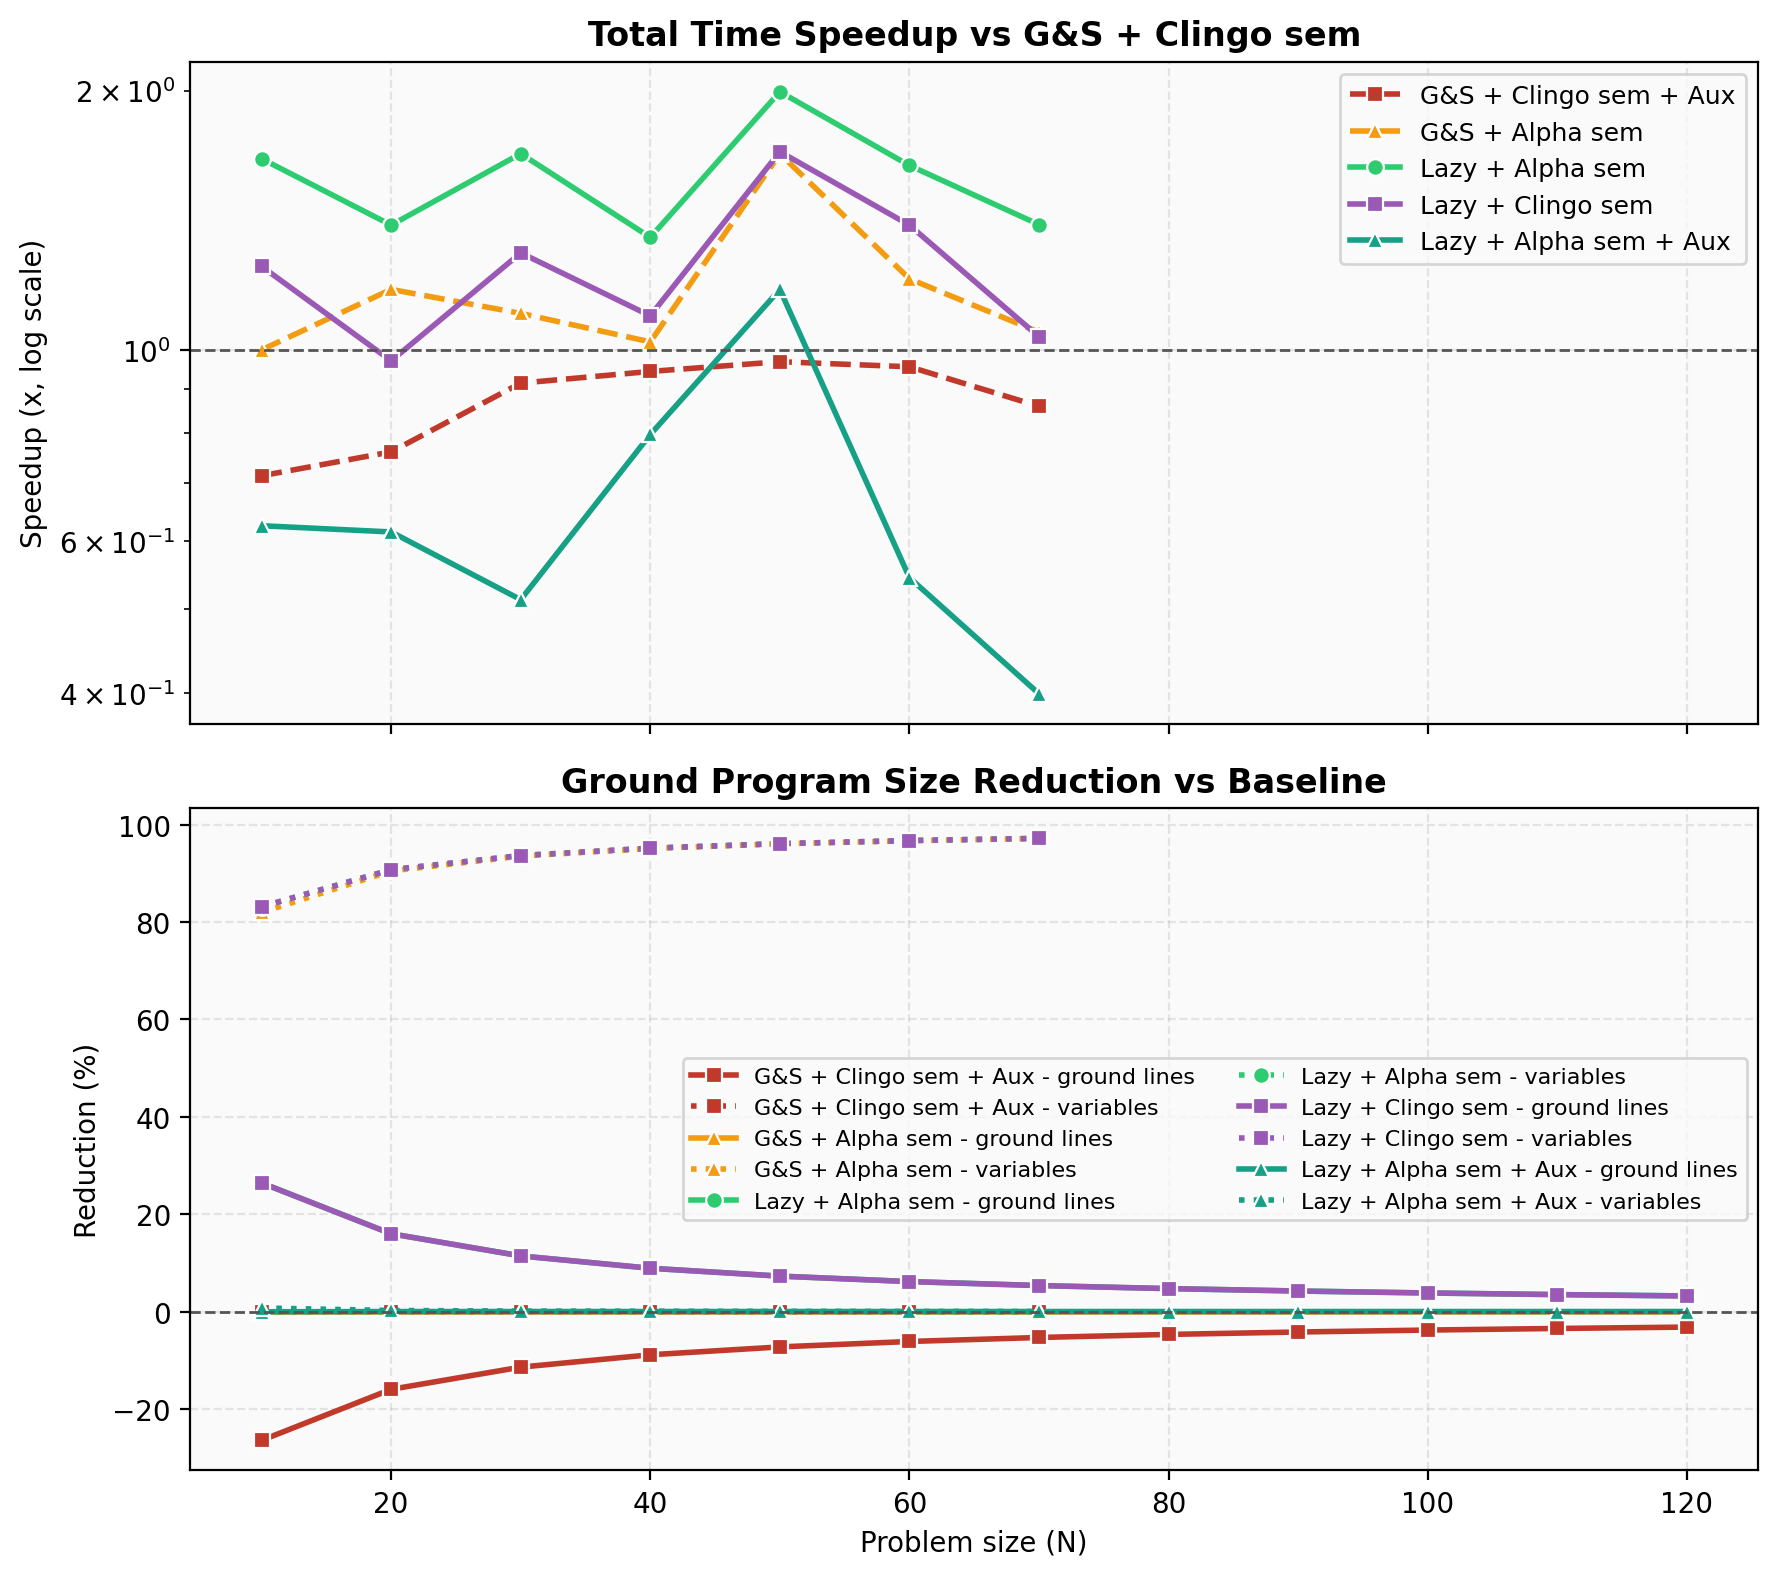
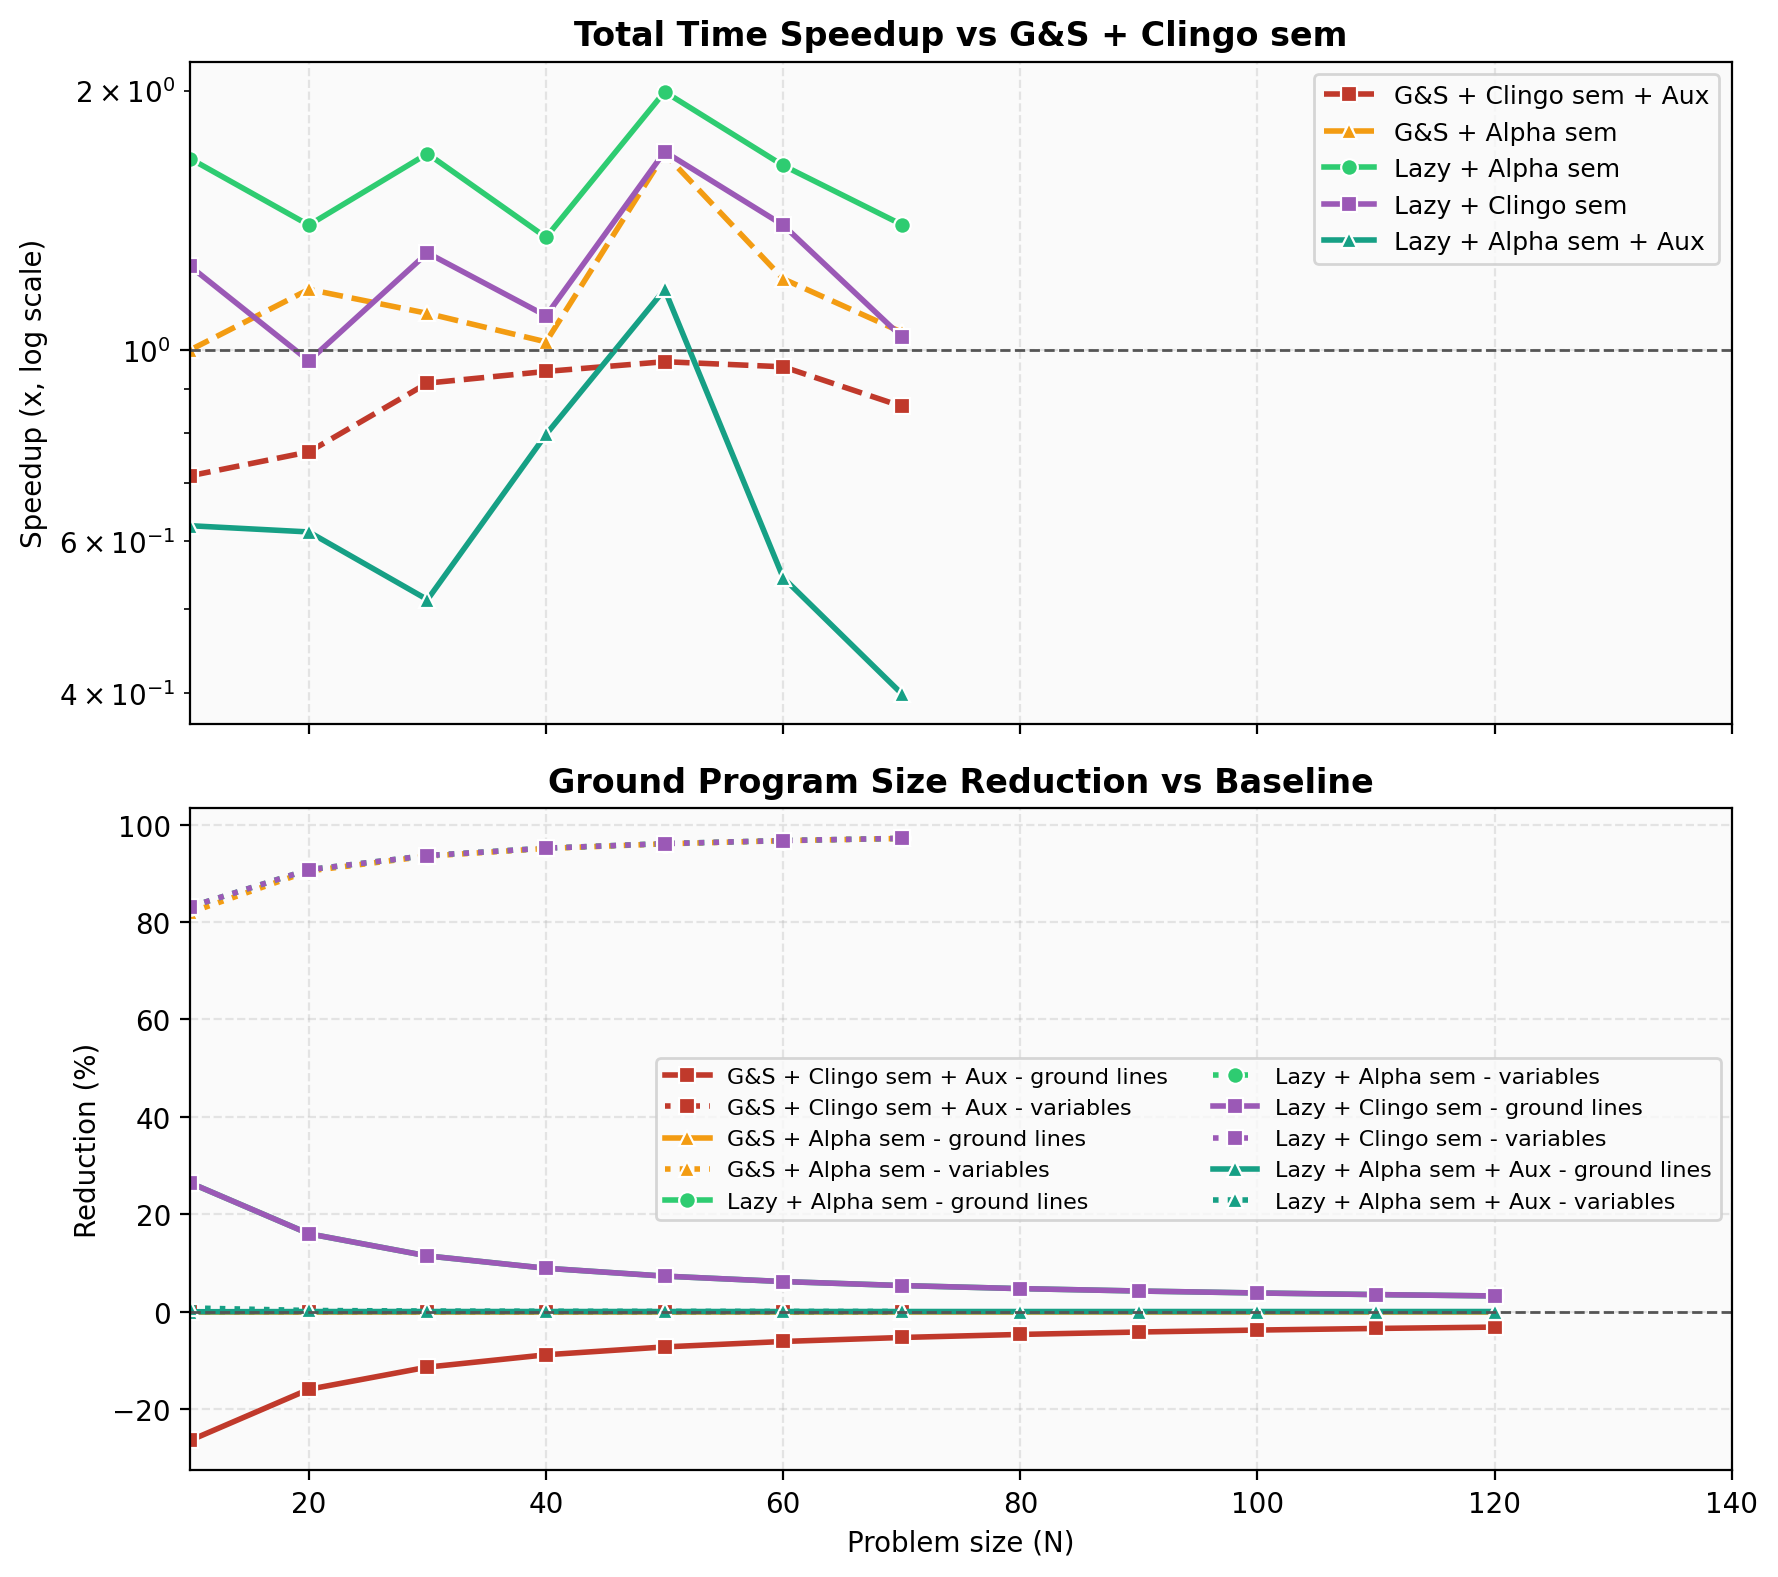
dai

diff --git a/test_folder/tools/gen_graphs.py b/test_folder/tools/gen_graphs.py
@@ -1336,6 +1336,9 @@ def _generate_relative_vs_baseline_chart(stats, graphs_dir, baseline_variant, th
         ax_speedup.set_ylabel("Speedup (x)")
     ax_speedup.grid(True, alpha=0.3, linestyle="--")
     ax_speedup.legend(fontsize=9)
+    total_domain = _all_metric_ns(stats, ["total_s"])
+    if total_domain:
+        ax_speedup.set_xlim(min(total_domain), max(total_domain))
 
     reduction_series = []
 
@@ -1401,6 +1404,9 @@ def _generate_relative_vs_baseline_chart(stats, graphs_dir, baseline_variant, th
     ax_reduction.set_ylabel("Reduction (%)")
     ax_reduction.grid(True, alpha=0.3, linestyle="--")
     ax_reduction.legend(fontsize=8, ncol=2)
+    reduction_domain = _all_metric_ns(stats, ["ground_lines", "rules", "variables"])
+    if reduction_domain:
+        ax_reduction.set_xlim(min(reduction_domain), max(reduction_domain))
 
     plt.tight_layout()
     out_path = os.path.join(graphs_dir, filename)
@@ -1415,6 +1421,16 @@ def _metric_mean_map(stats, variant, metric):
         return {}
     data = stats[variant][metric]
     return dict(zip(data["n"], data["mean"]))
+
+
+def _all_metric_ns(stats, metrics):
+
+    ns = set()
+    for variant_data in stats.values():
+        for metric in metrics:
+            if metric in variant_data:
+                ns.update(variant_data[metric]["n"])
+    return sorted(ns)
 
 
 def _effective_heuristic_map(stats, variant):
@@ -1603,6 +1619,9 @@ def _generate_heuristic_reduction_chart(stats, graphs_dir, baseline_variant, the
     ax.set_xlabel(xlabel, fontsize=11)
     ax.set_ylabel("Reduction (%)")
     ax.grid(True, alpha=0.3, linestyle="--")
+    heuristic_domain = _all_metric_ns(stats, ["ground_heuristics", "ground_lazy_heuristic_facts"])
+    if heuristic_domain:
+        ax.set_xlim(min(heuristic_domain), max(heuristic_domain))
     if has_data:
         ax.legend(fontsize=9)
     else:

diff --git a/test_folder/benchmarks/benchmark_runner.py b/test_folder/benchmarks/benchmark_runner.py
@@ -178,7 +178,19 @@ def _contains_memory_error(*texts: str) -> bool:
     return any(marker in joined for marker in memory_markers)
 
 
+def _contains_clingo_timeout(*texts: str) -> bool:
+    joined = "\n".join(text for text in texts if text).lower()
+    timeout_markers = (
+        "interrupted by signal",
+        "time limit",
+        "timelimit",
+    )
+    return any(marker in joined for marker in timeout_markers)
+
+
 def classify_process_failure(proc: subprocess.CompletedProcess[str]) -> tuple[str, str]:
+    if _contains_clingo_timeout(proc.stdout, proc.stderr):
+        return "timeout", "clingo_time_limit"
     if _contains_memory_error(proc.stdout, proc.stderr):
         return "memory", "memory_limit"
     if proc.returncode < 0 and -proc.returncode in (signal.SIGKILL, signal.SIGSEGV):
@@ -290,7 +302,12 @@ def run_benchmark(args) -> int:
                 exit_code = EXIT_TIMEOUT
             else:
                 status, failure_reason = classify_process_failure(proc)
-                exit_code = EXIT_MEMORY if status == "memory" else EXIT_ERROR
+                if status == "memory":
+                    exit_code = EXIT_MEMORY
+                elif status == "timeout":
+                    exit_code = EXIT_TIMEOUT
+                else:
+                    exit_code = EXIT_ERROR
             print(
                 f"    warning: clingo exited with status {proc.returncode}; solver metrics marked as NA",
                 file=sys.stderr,

diff --git a/docs/README.md b/docs/README.md
@@ -191,13 +191,14 @@ repeat:   1
 timeout:  60 secondi per singola run
 ```
 
-`STOP_VARIANT_ON_MEMORY=0` e' il default: il benchmark prova tutti i valori di
-`n` richiesti anche se una variante fallisce o raggiunge il limite memoria, in
-modo che il CSV registri una riga per ogni combinazione variante/N. Per fermare
-una variante dopo il primo limite memoria:
+`STOP_VARIANT_ON_MEMORY=1` e' attivo di default. Se una variante raggiunge il
+limite di memoria a un certo valore di `n`, lo script la ferma per i valori
+successivi e continua invece con le altre varianti. I timeout non fermano la
+variante: vengono registrati come `status=timeout` e il benchmark passa al
+valore di `n` successivo. Per disattivare lo stop su memoria:
 
 ```bash
-STOP_VARIANT_ON_MEMORY=1 \
+STOP_VARIANT_ON_MEMORY=0 \
 bash test_folder/benchmarks/benchmark_bsp.sh
 ```
 
